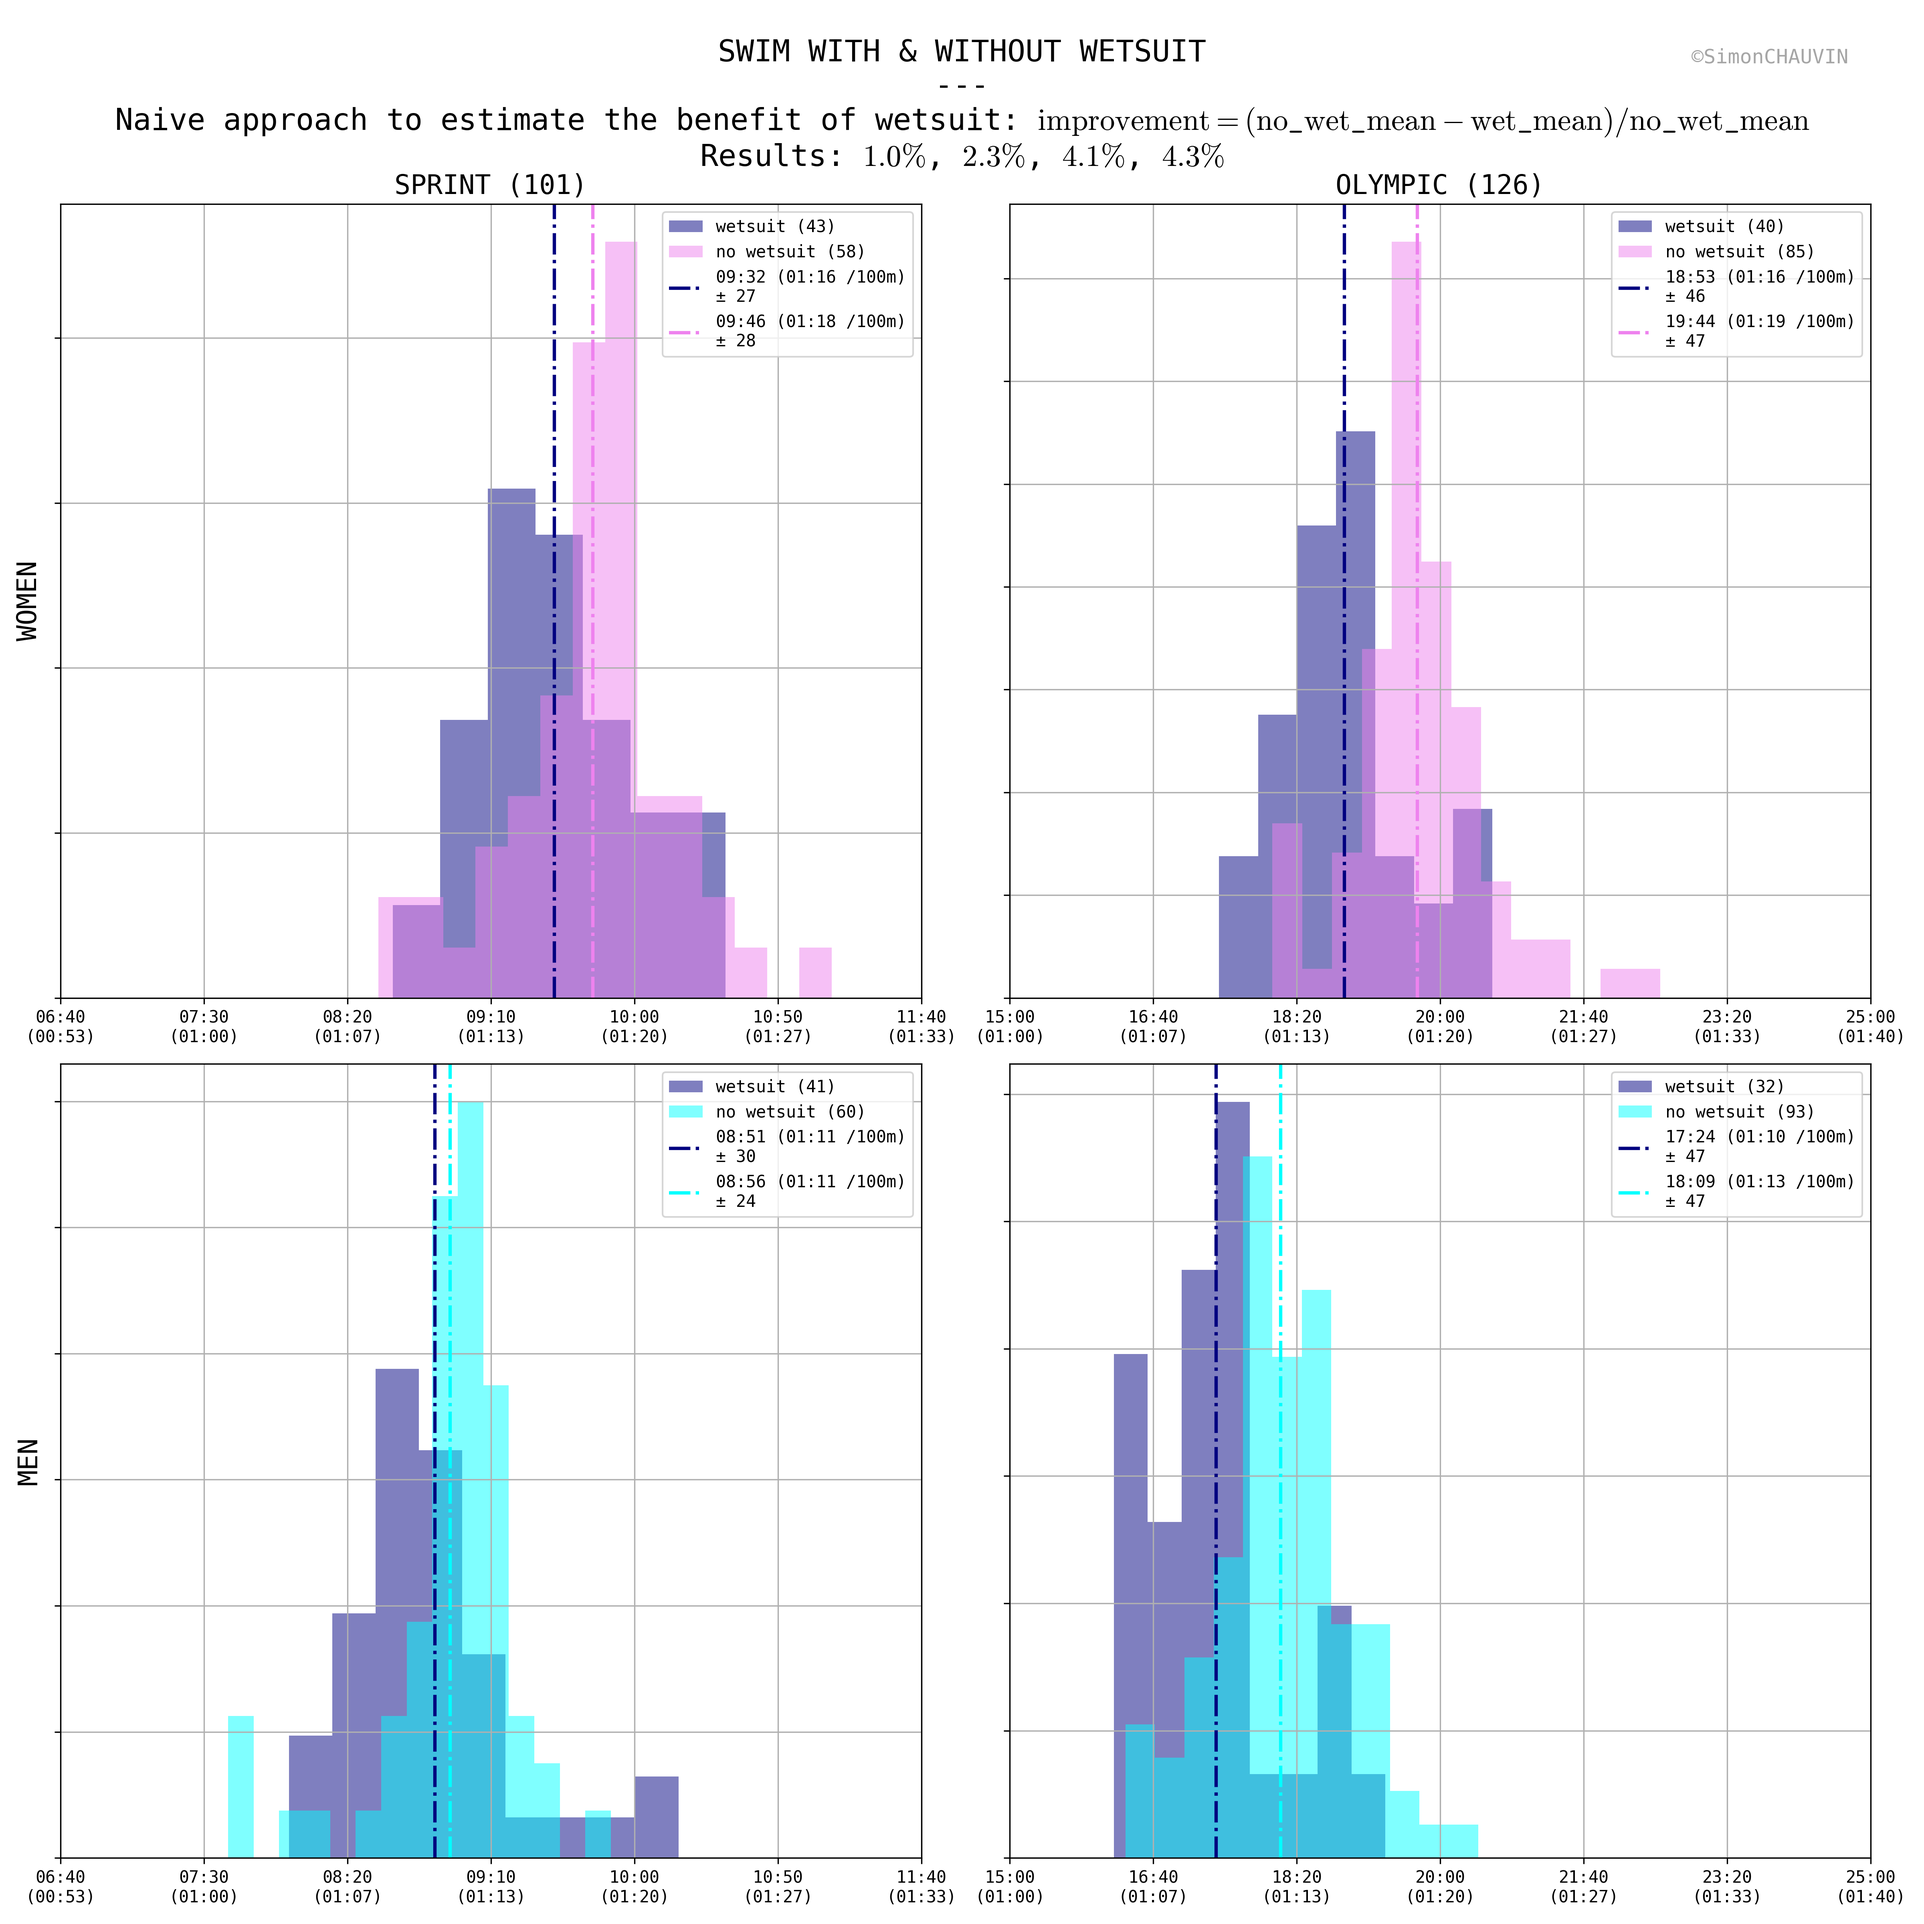
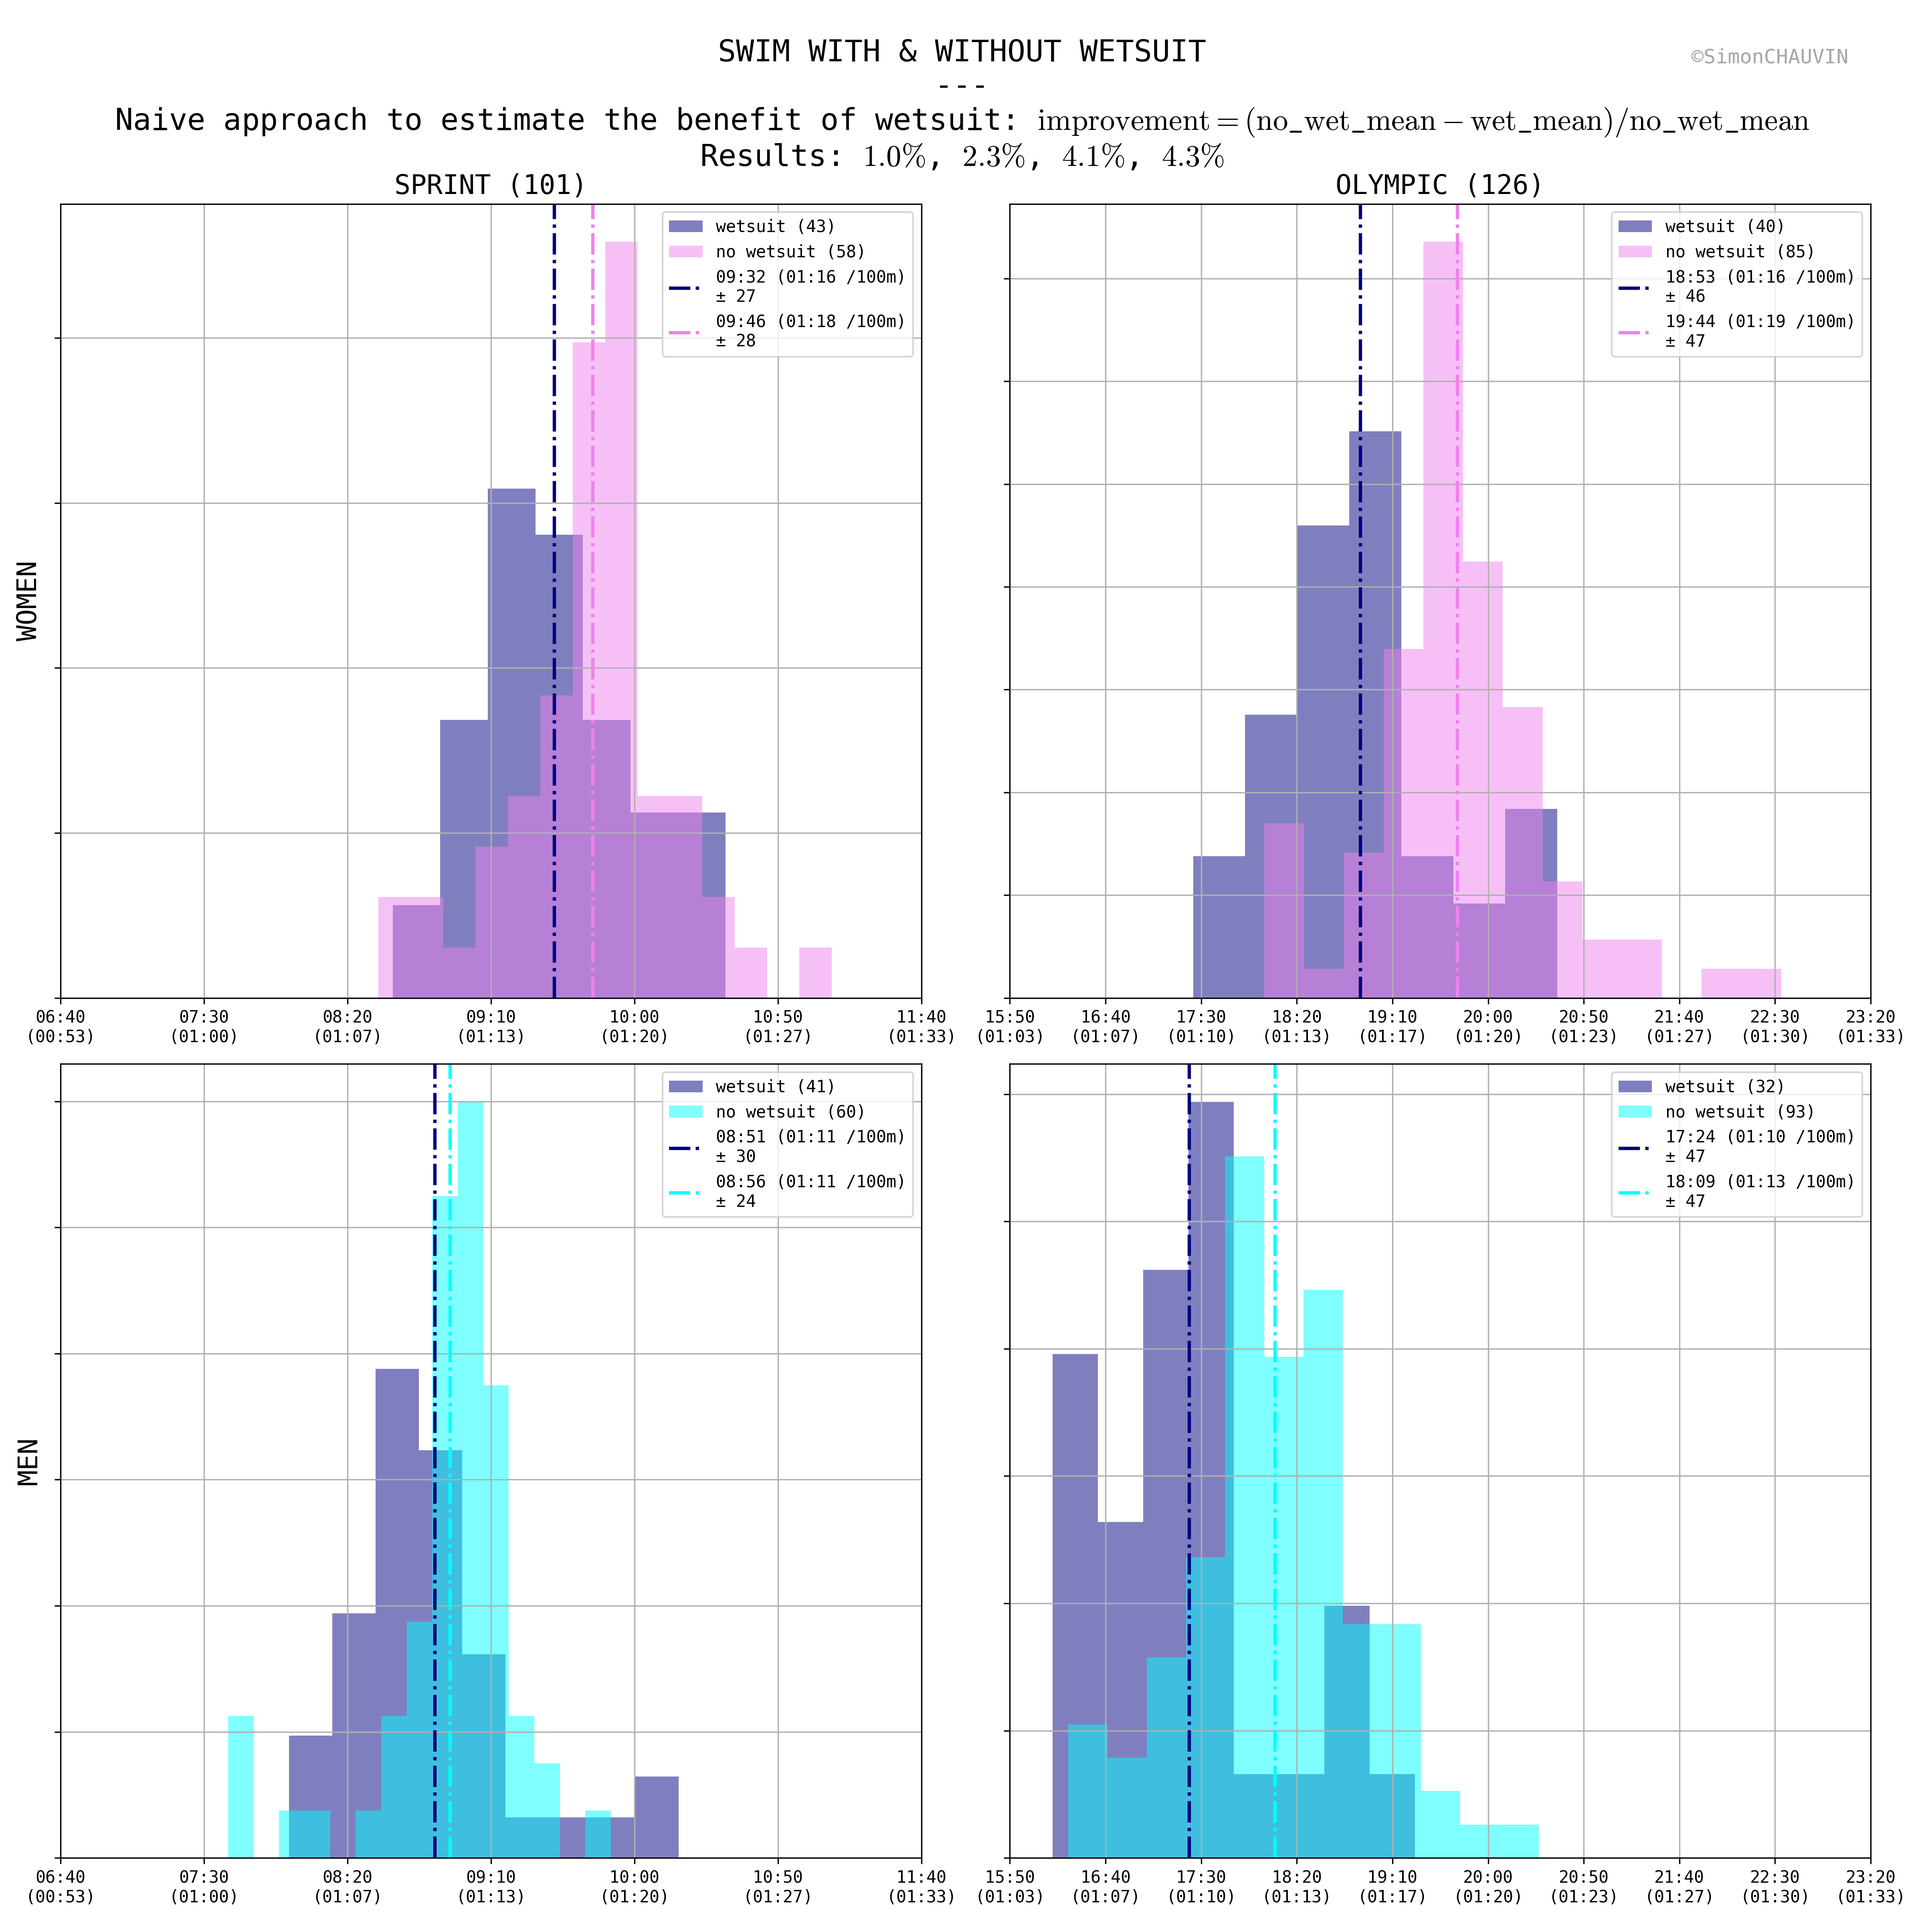
update text

Changed region(s): [[0.5312, 0.125, 0.9375, 1.0], [0.875, 0.9688, 0.9375, 1.0]]

diff --git a/races.py b/races.py
@@ -1183,13 +1183,13 @@ def process_results_wetsuit(df):
 
     for i_distance_category, distance_category in enumerate(distance_categories):
         x_max = max(
-            df[df['prog_distance_category'] == distance_category][f"swim_mean_m"].max(),
-            df[df['prog_distance_category'] == distance_category][f"swim_mean_w"].max()
+            drop_outliers(df[df['prog_distance_category'] == distance_category], i_sport=0)[f"swim_mean_m"].max(),
+            drop_outliers(df[df['prog_distance_category'] == distance_category], i_sport=0)[f"swim_mean_w"].max()
         ) + 10
 
         x_min = min(
-            df[df['prog_distance_category'] == distance_category][f"swim_mean_m"].min(),
-            df[df['prog_distance_category'] == distance_category][f"swim_mean_w"].min()
+            drop_outliers(df[df['prog_distance_category'] == distance_category], i_sport=0)[f"swim_mean_m"].min(),
+            drop_outliers(df[df['prog_distance_category'] == distance_category], i_sport=0)[f"swim_mean_w"].min()
         ) - 10
 
         for i_suffix, suffix in enumerate(["w", "m"]):

diff --git a/README.md b/README.md
@@ -203,7 +203,7 @@ It is worth recalling the [data](#books-data) settings:
 |:-----------------------------------------:| 
 |    *Distributions of times and paces.*    |
 
-Note: The distribution of swim times includes races **with and without wetsuit**. A [subsequent section](#penguin-wetsuit-benefit) does the distinction (see its _"second method"_ subsection), which reduces the standard deviation by 5-10s.
+Note: The distribution of swim times includes races both **with- and without wetsuit**. A [subsequent section](#penguin-wetsuit-benefit) does the distinction (see its _"second method"_ subsection).
 
 <details>
   <summary>Click to expand - 🏅 <strong>Same plots for the Top-3.</strong></summary>
@@ -270,10 +270,10 @@ Note: The distribution of swim times includes races **with and without wetsuit**
 
 ---
 
-Some **outliers** have been **dropped**:
-- :swimmer: of [2012 Mooloolaba ( :australia: )](https://www.triathlon.org/events/event/2012_mooloolaba_itu_triathlon_world_cup): see the previous section about [T1](#T1).
-- :bicyclist: of [2022 Pontevedra ( :es: )](https://www.triathlon.org/events/event/2022_world_triathlon_cup_pontevedra) and [2024 Hong Kong ( :hong_kong: )](https://www.triathlon.org/events/event/2024_world_triathlon_cup_hong_kong).
-- :runner: of [2011 Huatulco, Santa Cruz Bay ( :mexico: )](https://www.triathlon.org/events/event/2011_huatulco_itu_triathlon_world_cup), [2014 New Plymouth ( :new_zealand: )](https://www.triathlon.org/events/event/2014_new_plymouth_itu_triathlon_world_cup), [2014 Tongyeong ( :kr: )](https://www.triathlon.org/events/event/2014_tongyeong_itu_triathlon_world_cup), [2017 Madrid ( :es: )](https://www.triathlon.org/events/event/2017_madrid_itu_triathlon_world_cup) and [2021 Huatulco ( :mexico: )](https://www.triathlon.org/events/event/2021_huatulco_triathlon_world_cup).
+Some **outliers** have been **excluded**:
+- :swimmer: from [2012 Mooloolaba ( :australia: )](https://www.triathlon.org/events/event/2012_mooloolaba_itu_triathlon_world_cup): see the previous section on [T1](#T1).
+- :bicyclist: from [2022 Pontevedra ( :es: )](https://www.triathlon.org/events/event/2022_world_triathlon_cup_pontevedra) and [2024 Hong Kong ( :hong_kong: )](https://www.triathlon.org/events/event/2024_world_triathlon_cup_hong_kong).
+- :runner: from [2011 Huatulco, Santa Cruz Bay ( :mexico: )](https://www.triathlon.org/events/event/2011_huatulco_itu_triathlon_world_cup), [2014 New Plymouth ( :new_zealand: )](https://www.triathlon.org/events/event/2014_new_plymouth_itu_triathlon_world_cup), [2014 Tongyeong ( :kr: )](https://www.triathlon.org/events/event/2014_tongyeong_itu_triathlon_world_cup), [2017 Madrid ( :es: )](https://www.triathlon.org/events/event/2017_madrid_itu_triathlon_world_cup) and [2021 Huatulco ( :mexico: )](https://www.triathlon.org/events/event/2021_huatulco_triathlon_world_cup).
 
 ---
 
@@ -699,16 +699,24 @@ The benefit of the wetsuit could be estimated with a second method (less reliabl
 |:------------------------------------------------------------:| 
 |   *Comparing duration of swims with and without wetsuit.*    |
 
-The idea is to compute `improve_percent = (time_no_wetsuit - time_wetsuit) / time_no_wetsuit` with `time_wetsuit` and `time_no_wetsuit` being the **average swim durations** with- and without wetsuit, **using all race results**.
-
-This method leverages **more data**, but its results are **less reliable** since the **swim course distances differ**:
-- For instance, the difference between the fastest and the slowest `sprint`+`men`+`same-equipment` swim is more than 2min. In particular **Mooloolaba** ( :australia: ) swim times (without wetsuit) are **unusually low**.
-- The difference for `olympic`+`men`+`no-wetsuit` is 5min45s.
-- Clearly **swim distances**, or **how swim times are measured**, **differ** despite being given the **same format**.
+The idea is to compare the **average swim durations**, **with-** and **without wetsuit**:
+- `improve_percent = (time_no_wetsuit - time_wetsuit) / time_no_wetsuit`.
+- This formula is applied to **four cases**: W-sprint, W-olympic, M-sprint, M-olympic. And results are written in the title of the above figure.
+- Note how the **swim histograms** of the [:stopwatch: PACES](#stopwatch-paces) section **reveals two distinct modes**: **with-** (in violet, with lower times) and **without wetsuit** (larger times).  
 
 Outliers:
-- The swim of [2012 Mooloolaba ITU Triathlon World Cup ( :australia: )](https://www.triathlon.org/events/event/2012_mooloolaba_itu_triathlon_world_cup) has been dropped - see the previous section about [T1](#T1).
-- The **slowest swim** on the olympic format without wetsuit are for both men and women the **Paris 2024 Olympic Games** ( :fr: ).
+- The swim from [2012 Mooloolaba ITU Triathlon World Cup ( :australia: )](https://www.triathlon.org/events/event/2012_mooloolaba_itu_triathlon_world_cup) has been dropped, see the previous section on [T1](#T1).
+- The **slowest swim** in the **olympic format**, for both men and women, occurred during **Paris 2024 Olympic Games** ( :fr: ).
+
+:warning: **CRITICISMS**.
+- This method incorporates **more data**, but yields **less reliable** results to the following factors:
+  - :straight_ruler: **Swim course distances** vary between races.
+  - :stopwatch: **Timing methods** (e.g., timing mat locations) are **not always consistent**.
+- For exemple:
+  - The **difference** between the fastest and the slowest `sprint`+`men`+`same-equipment` swim exceeds **2 minutes**.
+    - Specifically, swim times at **Mooloolaba** ( :australia: ) are **unusually fast** considering the **absence of wetsuit**.
+  - For `olympic`+`men`+`no-wetsuit`, the difference is **5:45**.
+- Clearly, **swim distances** or **timing methods** vary between races, even when they are **labeled with the same format**.
 
 </details>
 
